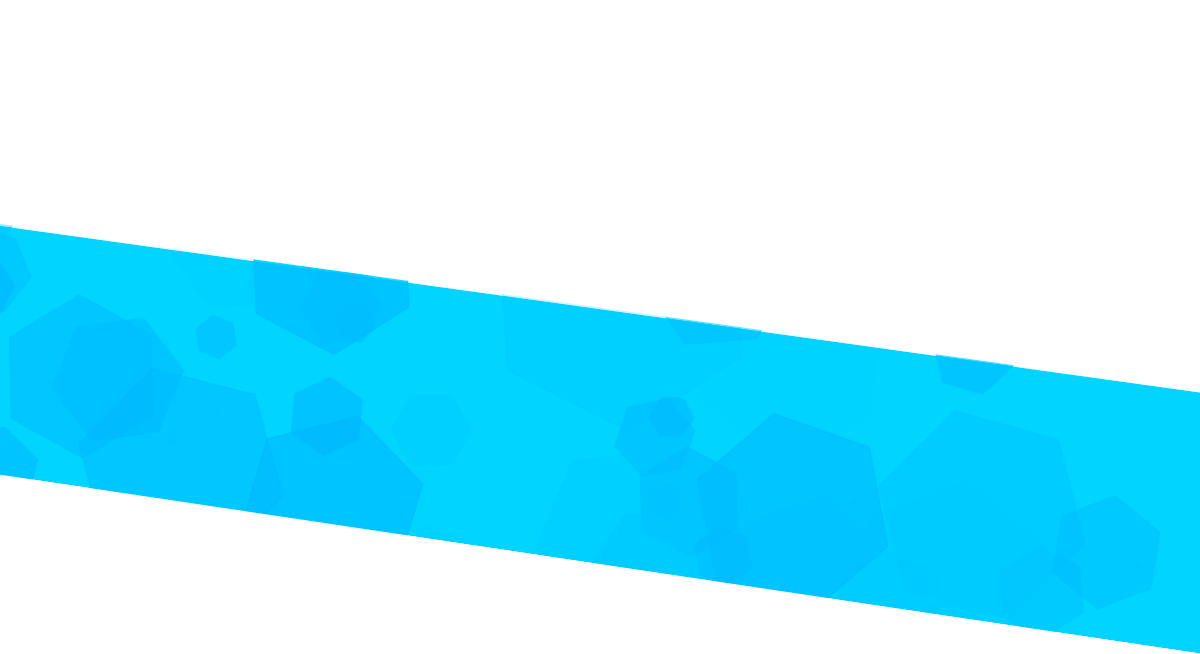
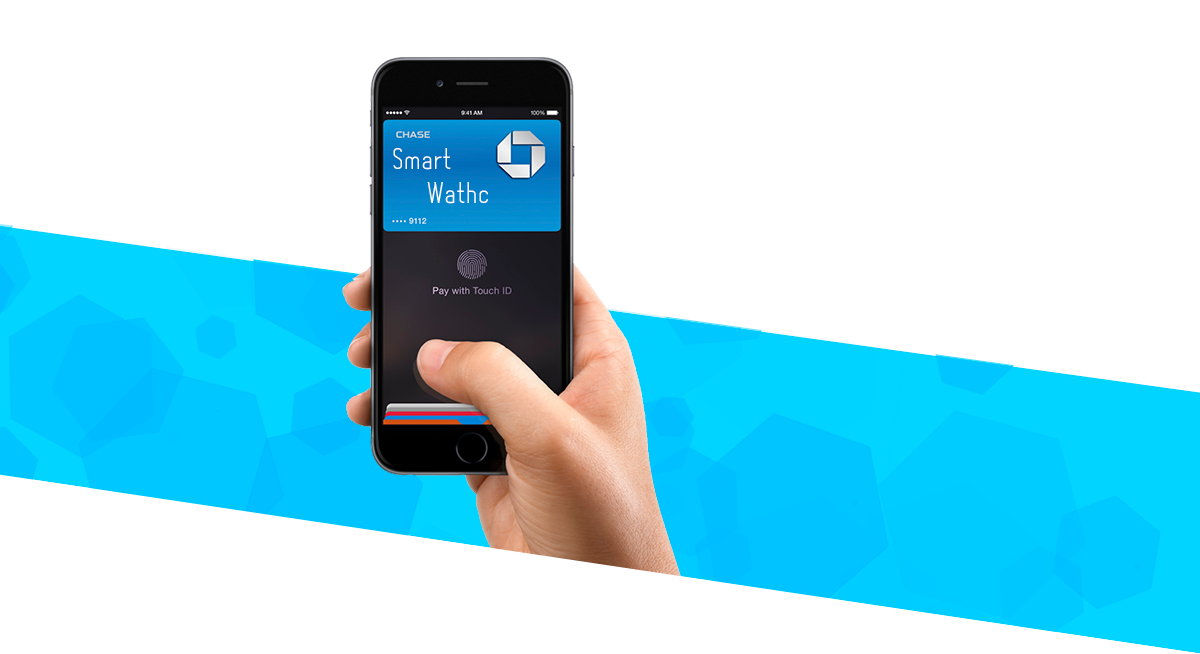
block2 done

Changed region(s): [[0.2775, 0.0612, 0.5858, 0.8869]]

diff --git a/sass/index.scss b/sass/index.scss
@@ -10,27 +10,34 @@
   padding: 0;
   box-sizing: border-box;
 }
+
+//declare variables
+$textColor: #7F7F7F;
+$textColor2: white;
 html {
   font-family: 'ACBoucle', serif;
 }
 .block1 {
-  color: white;
+  color: $textColor2;
   position: relative;
-  &:after {
-    content: '';
-    position: absolute;
-    bottom: -200px;
-    right: 350px;
-    background: url("../img/block1__watch.png");
-    width: 620px;
-    height: 652px;
-  }
+
   &__inner {
+    position: relative;
     width: 1200px;
     height: 558px;
     margin: 0 auto;
     outline: 1px solid;
     background: url("../img/block1__bg.png");
+    &:after {
+      content: '';
+      position: absolute;
+      bottom: -200px;
+      right: 0;
+      background: url("../img/block1__watch.png");
+      width: 620px;
+      height: 652px;
+      z-index: 100;
+    }
   }
   &__intro {
     width: 610px;
@@ -81,7 +88,7 @@ html {
     width: 355px;
     height: 78px;
     font-size: 60px;
-    color: white;
+    color: $textColor2;
     font-weight: 100;
     font-family: 'ACBoucle', serif;
     border: none;
@@ -95,4 +102,63 @@ html {
       cursor: pointer;
     }
   }
+}
+.block2 {
+  position: relative;
+  &__inner {
+    position: relative;
+    width: 1200px;
+    height: 930px;
+    margin: 0 auto;
+    background: url("../img/block2__bg.png") 0 275px no-repeat;
+  }
+  &__intro{
+    width: 580px;
+    position: absolute;
+    right: 0;
+    top: 320px;
+    &-title {
+      font-size: 48px;
+      color: $textColor;
+      text-transform: uppercase;
+      line-height: 53px;
+    }  
+    &-text {
+      font-size: 28px;
+      color: $textColor;
+      line-height: 15px;
+    }
+  }
+  &__img-wrap {
+    position: relative;
+    top: 120px;
+  }
+  &__img-watch {
+    background: url("../img/block2__watch.png");
+    position: absolute;
+    left: 50px;
+    z-index: 100;
+    width: 134px;
+    height: 812px;
+  }
+  &__img-plus {
+    background: url("../img/block2__plus.png");
+    position: absolute;
+    left: 210px;
+    top: 355px;
+    z-index: 100;
+    width: 129px;
+    height: 129px;
+  }
+&__text {
+  font-size: 30px;
+  color: $textColor2;
+  position: absolute;
+  right: 70px;
+  bottom: 105px;
+  width: 420px;
+  line-height: 32px;
+  font-weight: bold;
+}
+  
 }

diff --git a/css/index.css b/css/index.css
@@ -15,20 +15,22 @@ html {
 .block1 {
   color: white;
   position: relative; }
-  .block1:after {
-    content: '';
-    position: absolute;
-    bottom: -200px;
-    right: 350px;
-    background: url("../img/block1__watch.png");
-    width: 620px;
-    height: 652px; }
   .block1__inner {
+    position: relative;
     width: 1200px;
     height: 558px;
     margin: 0 auto;
     outline: 1px solid;
     background: url("../img/block1__bg.png"); }
+    .block1__inner:after {
+      content: '';
+      position: absolute;
+      bottom: -200px;
+      right: 0;
+      background: url("../img/block1__watch.png");
+      width: 620px;
+      height: 652px;
+      z-index: 100; }
   .block1__intro {
     width: 610px;
     padding-top: 20px;
@@ -81,3 +83,53 @@ html {
       outline: none; }
     .order__btn:hover {
       cursor: pointer; }
+
+.block2 {
+  position: relative; }
+  .block2__inner {
+    position: relative;
+    width: 1200px;
+    height: 930px;
+    margin: 0 auto;
+    background: url("../img/block2__bg.png") 0 275px no-repeat; }
+  .block2__intro {
+    width: 580px;
+    position: absolute;
+    right: 0;
+    top: 320px; }
+    .block2__intro-title {
+      font-size: 48px;
+      color: #7F7F7F;
+      text-transform: uppercase;
+      line-height: 53px; }
+    .block2__intro-text {
+      font-size: 28px;
+      color: #7F7F7F;
+      line-height: 15px; }
+  .block2__img-wrap {
+    position: relative;
+    top: 120px; }
+  .block2__img-watch {
+    background: url("../img/block2__watch.png");
+    position: absolute;
+    left: 50px;
+    z-index: 100;
+    width: 134px;
+    height: 812px; }
+  .block2__img-plus {
+    background: url("../img/block2__plus.png");
+    position: absolute;
+    left: 210px;
+    top: 355px;
+    z-index: 100;
+    width: 129px;
+    height: 129px; }
+  .block2__text {
+    font-size: 30px;
+    color: white;
+    position: absolute;
+    right: 70px;
+    bottom: 105px;
+    width: 420px;
+    line-height: 32px;
+    font-weight: bold; }

diff --git a/index.html b/index.html
@@ -26,6 +26,21 @@
     </div>
 </section>
 
+<section class="block2">
+    <div class="block2__inner">
+        <div class="block2__intro">
+            <p class="block2__intro-title">высокотехнологические часы smart watch u8 работают в паре с вашим смартфоном</p>
+            <p class="block2__intro-text">на операционной системе Android или iOS через Bluetooth</p>
+        </div>
+        <div class="block2__img-wrap">
+            <div class="block2__img-watch"></div>
+            <div class="block2__img-plus"></div>
+        </div>
+        <p class="block2__text">В первую очередь эти часы - дополнение к телефону - аксессуар, расширяющий возможности
+            смартфона и делающий его использование более комфортным.</p>
+    </div>
+</section>
+
 <!--<script src="https://ajax.googleapis.com/ajax/libs/jquery/2.1.4/jquery.min.js"></script>-->
 <script src="js/index.js"></script>
 </body>
